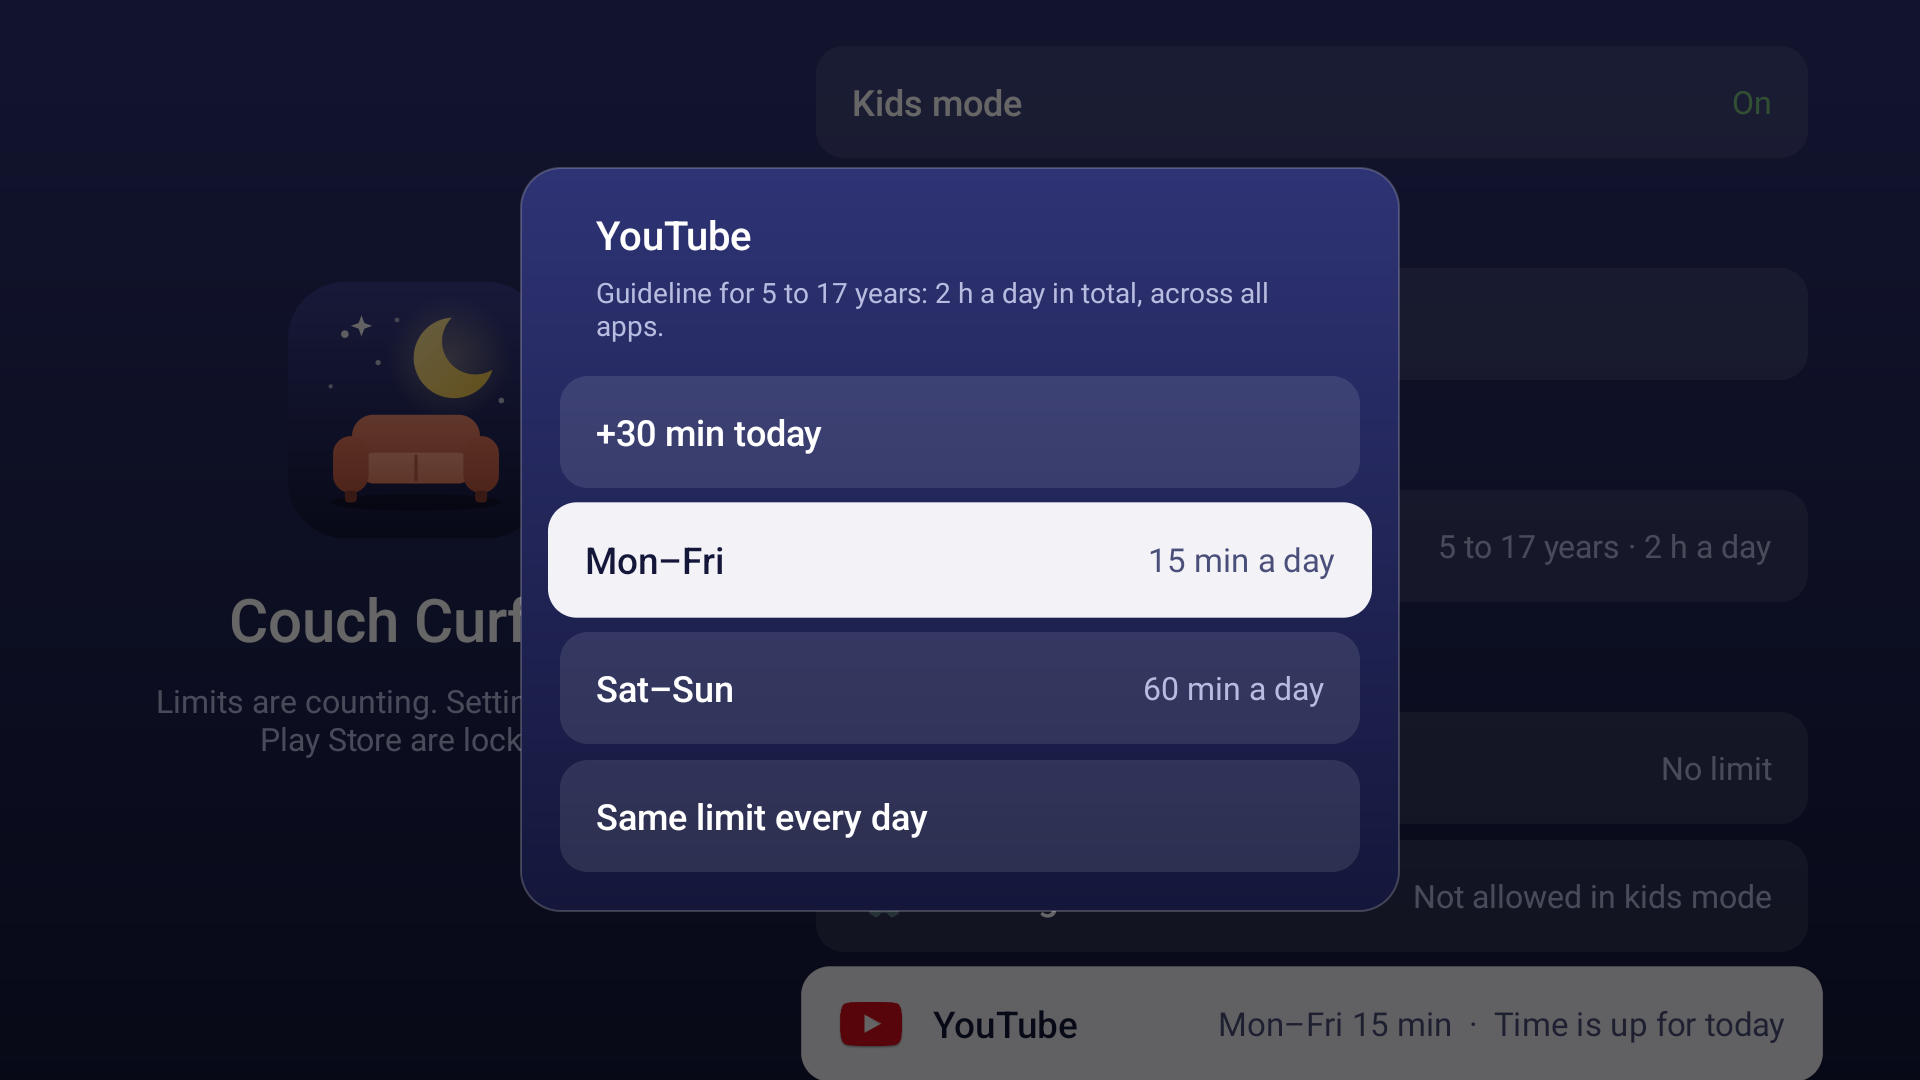
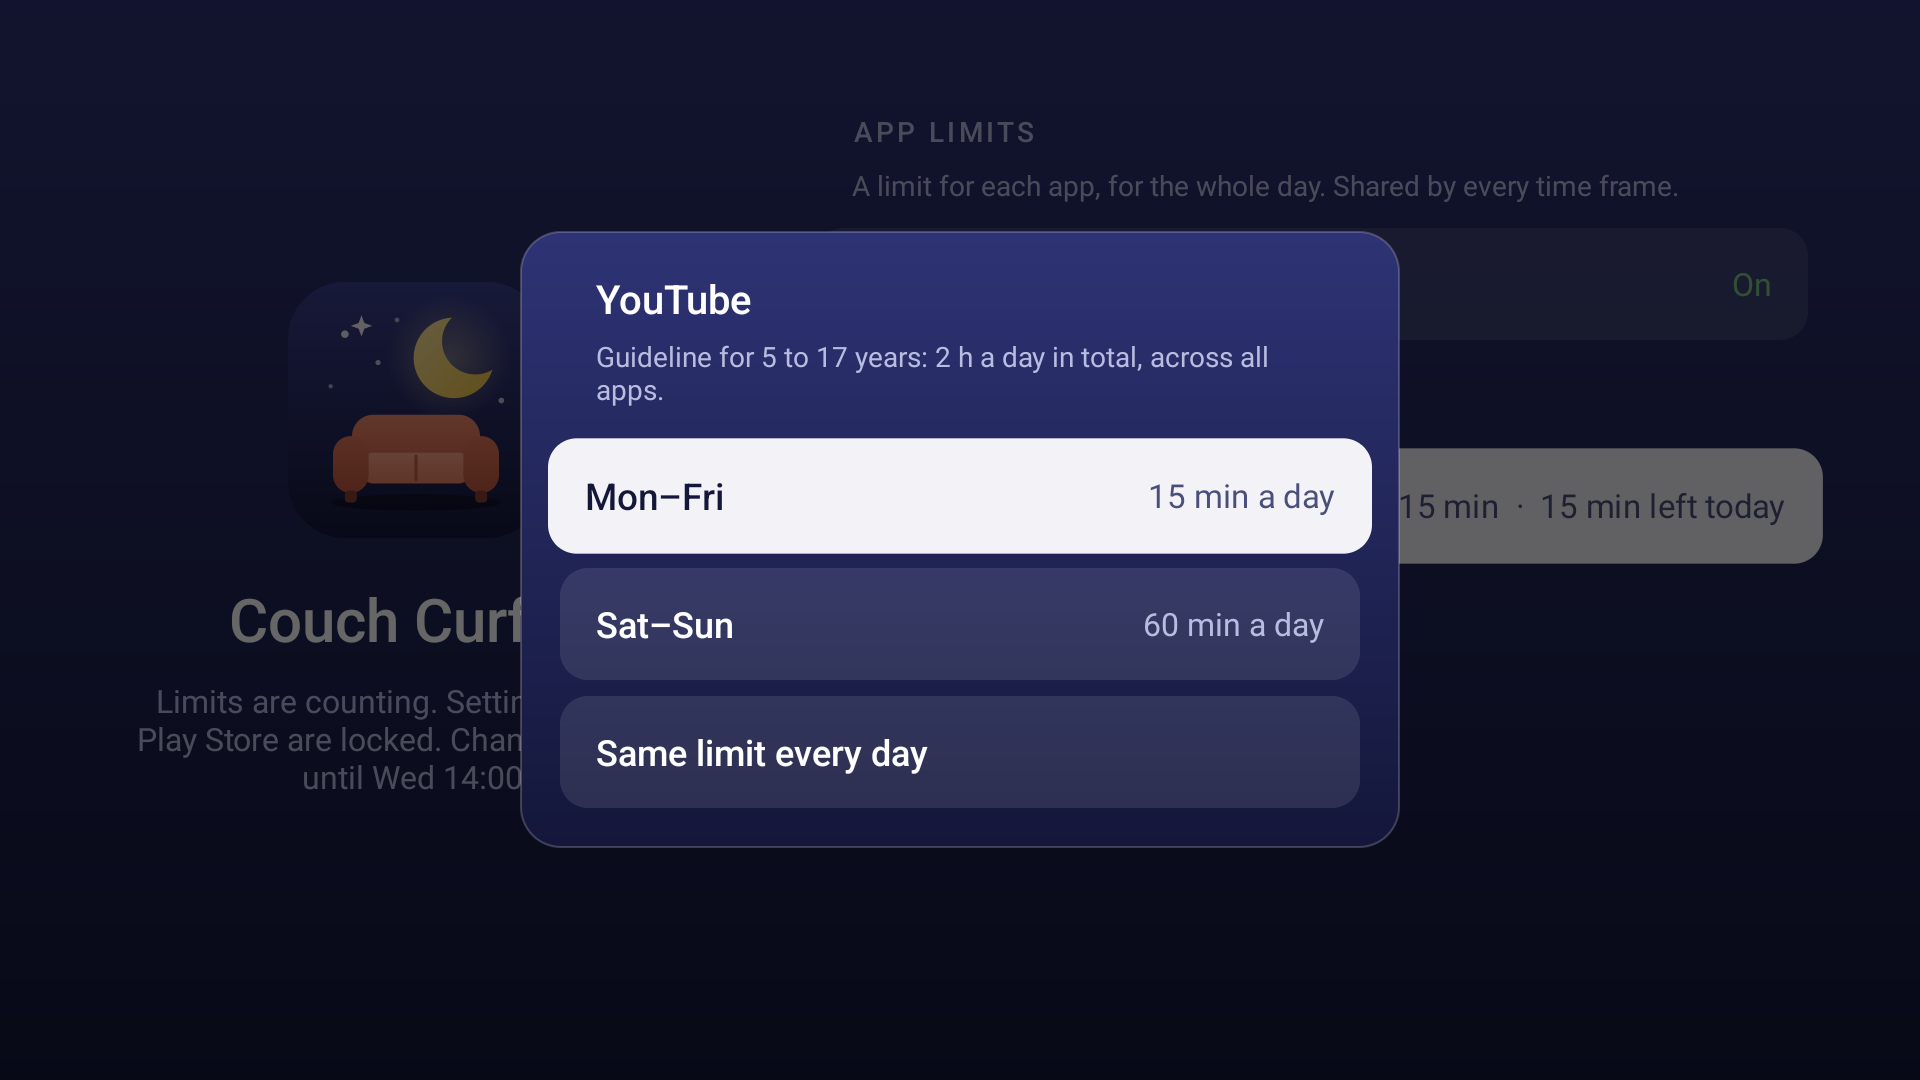
docs: describe the 0.6.0 limits and time frames in the README
Claude-Session: https://claude.ai/code/session_01HfJHBZGLd5KYJaVPwgX2Yb

diff --git a/README.md b/README.md
@@ -66,15 +66,21 @@ It is not part of, or affiliated with, any of them, and has only been tested nex
 - **A schedule for kids mode.** Windows of days and hours ("Mon–Fri 14:00–20:00", "Sat–Sun 08:00–21:00", even
   "20:00–07:00" across midnight) turn it on and off by themselves. A parent can still switch it by hand; that holds
   until the schedule's next start or end.
-- **A daily limit per app**: 15 minutes to 3 hours, no limit, or **not allowed** in kids mode. Time resets at midnight.
-- **Different limits on weekends.** Each app can have one limit for Monday to Friday and another for Saturday and
-  Sunday: "YouTube, 15 minutes on school days, an hour on weekends", or not allowed during the week at all.
-- **A morning total for school days.** From Monday to Friday, until a time the parent picks (13:00 by default), every
-  app with a limit can share one total of 10 to 60 minutes. What the youngest watches while the others are at school
-  comes out of that total, and each app starts the afternoon with its whole limit. Off by default.
-- **When time is up** the app closes, the TV goes home and the app stays paused until midnight. One minute before, a
-  warning shows. Opening a paused app explains why, and tells the kid to ask their parents.
-- **+30 minutes today** for one app, without changing its limit.
+- **Three kinds of limit, each one on or off by itself.** A **daily total** for every app together ("one hour of TV,
+  on whatever they like"), a **daily limit per app** (15 minutes to 3 hours, or **not allowed** in kids mode) and
+  **time frames**. All of them count at the same time and the strictest one wins. Time resets at midnight.
+- **Time frames, for a TV that several kids share.** A TV has no profile per kid, so a time frame stands in for "who
+  is watching": name it ("Emma", "Morning"), pick its days and hours, and give it a total and limits per app of its
+  own ("Netflix, 30 minutes in the morning"). Each frame keeps its own count, so what the youngest watches in the
+  morning doesn't spend what the others have in the afternoon. Up to four, never overlapping.
+- **Different limits on weekends.** The daily total and each app can have one limit for Monday to Friday and another
+  for Saturday and Sunday: "YouTube, 15 minutes on school days, an hour on weekends".
+- **Always allowed apps.** Mark the apps that should never count or be blocked, such as music or a school app.
+  Everything else on the TV counts toward the totals, including apps installed later.
+- **When time is up** the app closes, the TV goes home and the app stays paused until midnight, or until the time
+  frame ends. One minute before, a warning shows. Opening a paused app explains why, and when it is back.
+- **More time today**, behind the PIN: 15, 30 or 60 minutes for one app, added to whatever limit is holding it back,
+  without changing the limit.
 - **Settings and the Play Store are locked in kids mode**, so the limits can't be switched off from the TV's menus:
   opening either one sends the TV home.
 - **Private by design.** Everything is set up on the TV, behind the PIN, and the usage history stays in the app's own
@@ -92,7 +98,11 @@ The last 7 days against the guideline, with the day over it in red:
 
 | Limits and settings | A limit for weekdays and another for weekends |
 |---|---|
-| ![Kids mode, the schedule, the guideline and each app's limit](docs/images/settings.png) | ![YouTube with 15 minutes Monday to Friday and 60 on weekends](docs/images/limit-by-day.png) |
+| ![Kids mode, more time, the schedule, the limits and the rest of the settings](docs/images/settings.png) | ![YouTube with 15 minutes Monday to Friday and 60 on weekends](docs/images/limit-by-day.png) |
+
+| The three kinds of limit | A time frame |
+|---|---|
+| ![The daily total, two time frames and the limits per app](docs/images/limits.png) | ![A time frame with its hours, its total and a limit for one app](docs/images/frame.png) |
 
 The screenshots come from an emulator with sample data.
 
@@ -110,8 +120,8 @@ You need an Android TV (8.0 or newer) on the same network as a computer with
    ```
 3. Open **Couch Curfew** from the TV's apps. It opens on the dashboard, which needs no PIN.
 4. Pick the gear (**Limits and settings**), create the parent PIN, then **Setup**. The TV asks once to allow USB debugging for Couch Curfew: check **Always allow** and accept.
-5. Pick a limit for each app you want to limit, then turn **Kids mode** on, or add a **Schedule** window.
-6. Optional: pick **Youngest child's age** to color the dashboard against the daily guideline.
+5. Under **Limits**, set a daily total, a limit for the apps you want to limit, or a time frame. Then turn **Kids mode** on, or add a **Schedule** window.
+6. Optional: pick the youngest child's age under **Daily guideline** to color the dashboard against it.
 
 On TCL and other TVs that kill background apps, Setup also grants `APP_AUTO_START`, so the midnight reset, the
 schedule and the restore after a reboot can run.
@@ -119,7 +129,7 @@ schedule and the restore after a reboot can run.
 ## User guide
 
 The [wiki](https://github.com/juanra/couch-curfew/wiki) explains how to use the app, screen by screen: kids mode and
-its schedule, the limits per app, the morning total, the dashboard and what to do when something goes wrong.
+its schedule, the three kinds of limit, time frames, the dashboard and what to do when something goes wrong.
 
 ## How it works
 
@@ -127,14 +137,14 @@ Couch Curfew talks to the TV's own ADB (network debugging, `127.0.0.1:5555`) to 
 commands: `pm suspend` and `pm unsuspend` on the apps that must be blocked, `am force-stop` on an app that ran out of
 time, and turning its accessibility service on. The accessibility service only receives window changes (which app is
 in front); it never reads the screen. That same signal feeds the history: the time of the app in front goes to a
-local SQLite table, one row per day, hour and app, and rows older than a year are dropped. One alarm wakes it at midnight and at each start or end of a schedule window.
+local SQLite table, one row per day, hour and app, and rows older than a year are dropped. One alarm wakes it at midnight and at each start or end of a schedule window or a time frame.
 
 The ADB client is adapted from Free My TV's, under its MIT license.
 
 ## The daily guideline
 
-The guideline is a reference on the dashboard, not a lock: nothing is blocked when a day goes over it. The limits per
-app do the blocking.
+The guideline is a reference on the dashboard, not a lock: nothing is blocked when a day goes over it. The limits do
+the blocking.
 
 | Youngest child | Guideline | Source |
 |---|---|---|
@@ -151,7 +161,9 @@ on the dashboard follow that.
 
 Couch Curfew is a speed bump for young kids, not a lock for a determined teenager. It can't stop:
 
-- **HDMI devices** (a console, a streaming stick): they don't go through the TV's apps.
+- **HDMI devices** (a console, a streaming stick) and live TV inputs: they don't go through the TV's apps, so no
+  limit or total counts them.
+- **Who is watching.** A time frame is a part of the day, not a kid: the TV can't tell them apart.
 - **A factory reset**, or turning off network debugging from Developer options before kids mode is on.
 - **The home screen's own settings**, when the home screen is a replacement such as Free My TV. They don't switch
   Couch Curfew off.
@@ -189,7 +201,6 @@ own key, so it can't update one installed from a release (uninstall that one fir
 ## Roadmap
 
 - Bedtime: every app locked during a window.
-- A combined daily total across apps.
 - HDMI inputs.
 
 ## Support
